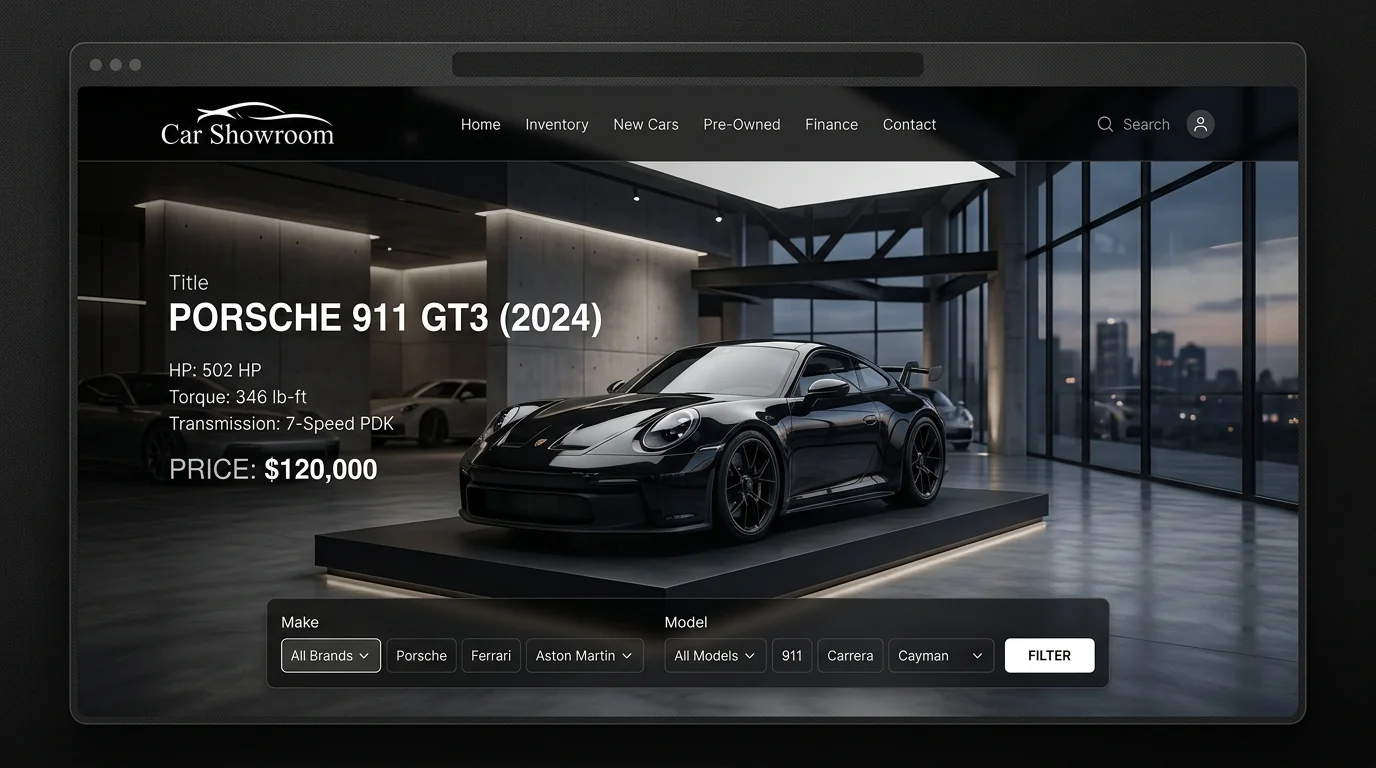
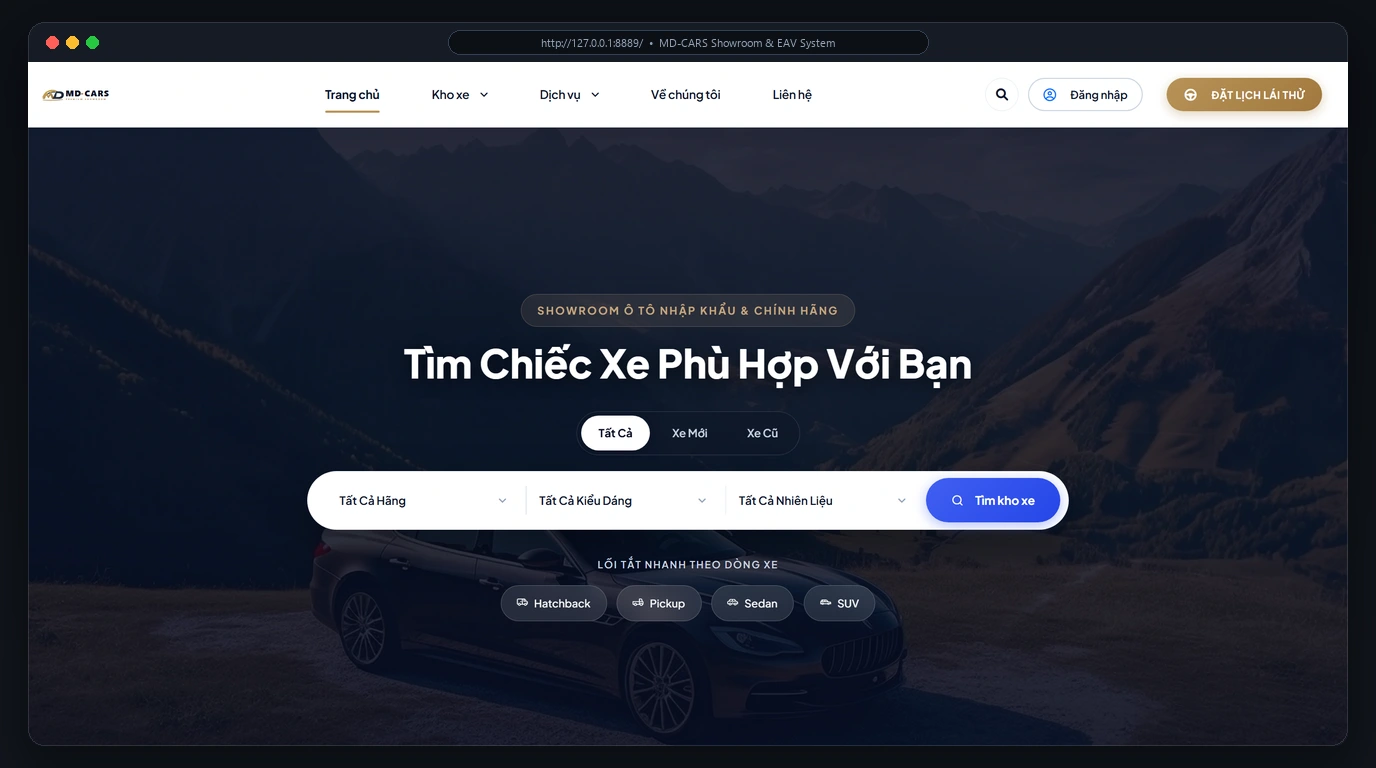
refactor: update API endpoints and descriptions in projectData.js, enhance tech stack details

diff --git a/frontend/src/data/projectData.js b/frontend/src/data/projectData.js
@@ -33,9 +33,9 @@ export const projectData = {
           driver: 'asyncpg',
         },
         endpoints: [
-          { method: 'GET', path: '/api/v1/books', desc: 'Lấy danh mục sách kèm phân trang & lọc' },
-          { method: 'POST', path: '/api/v1/books', desc: 'Thêm sách mới & upload ảnh bìa (multipart)' },
-          { method: 'POST', path: '/api/v1/auth/login', desc: 'Xác thực tài khoản & cấp phát JWT token' },
+          { method: 'GET', path: '/books', desc: 'Lấy danh mục sách kèm phân trang & lọc' },
+          { method: 'POST', path: '/books', desc: 'Tạo sách mới & kiểm tra ràng buộc khóa ngoại' },
+          { method: 'POST', path: '/books/{id}/cover', desc: 'Upload file ảnh bìa (multipart/form-data)' },
         ],
       },
     },
@@ -137,7 +137,7 @@ export const projectData = {
         'Xây dựng hệ thống backend với Laravel & MySQL, thiết kế cấu trúc phân cấp Makes/Models/Trims, lưu trữ thuộc tính động EAV, lịch sử biến động giá và đặt lịch hẹn lái thử.',
       impact:
         'Cung cấp quy trình vận hành toàn diện cho showroom từ lúc nhập kho phương tiện đến khi tiếp nhận lead và chốt giao dịch.',
-      tech: ['Laravel', 'PHP', 'MySQL', 'EAV Model', 'Docker', 'TailwindCSS'],
+      tech: ['Laravel 12', 'Livewire', 'MySQL', 'EAV Model', 'Docker', 'PHP 8.3'],
       repoUrl: 'https://github.com/dienakdz/car-showroom',
       liveUrl: null,
       status: 'EAV Showroom',
@@ -175,9 +175,9 @@ export const projectData = {
           driver: 'asyncpg',
         },
         endpoints: [
-          { method: 'GET', path: '/api/v1/books', desc: 'List books with pagination & filter' },
-          { method: 'POST', path: '/api/v1/books', desc: 'Create book with cover upload (multipart)' },
-          { method: 'POST', path: '/api/v1/auth/login', desc: 'Authenticate account & issue JWT' },
+          { method: 'GET', path: '/books', desc: 'List books with pagination & filter' },
+          { method: 'POST', path: '/books', desc: 'Create book with foreign key validation' },
+          { method: 'POST', path: '/books/{id}/cover', desc: 'Upload book cover (multipart/form-data)' },
         ],
       },
     },
@@ -279,7 +279,7 @@ export const projectData = {
         'Architected a robust Laravel & MySQL backend with multi-table catalog hierarchy, EAV attribute values, inventory price tracking, and appointment scheduling workflows.',
       impact:
         'Provides a complete dealership workflow engine handling vehicles from intake to customer test-drive booking and sales.',
-      tech: ['Laravel', 'PHP', 'MySQL', 'EAV Model', 'Docker', 'TailwindCSS'],
+      tech: ['Laravel 12', 'Livewire', 'MySQL', 'EAV Model', 'Docker', 'PHP 8.3'],
       repoUrl: 'https://github.com/dienakdz/car-showroom',
       liveUrl: null,
       status: 'EAV Showroom',
